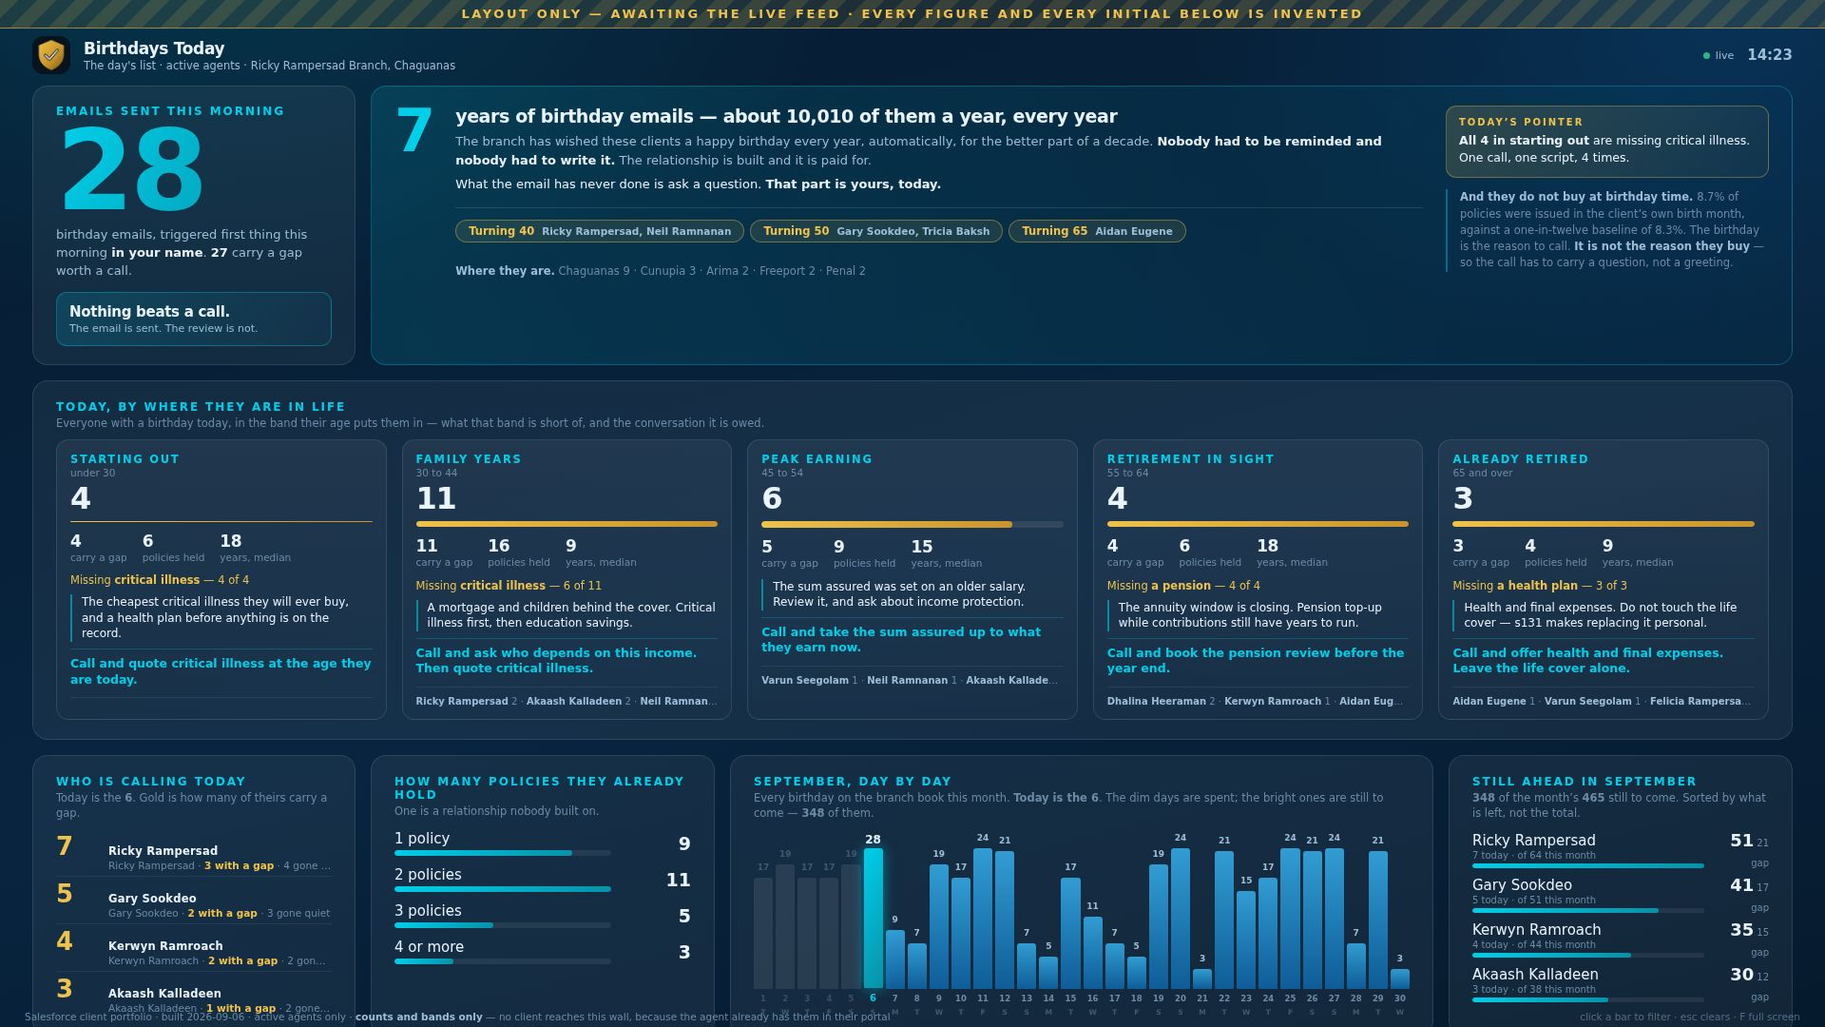
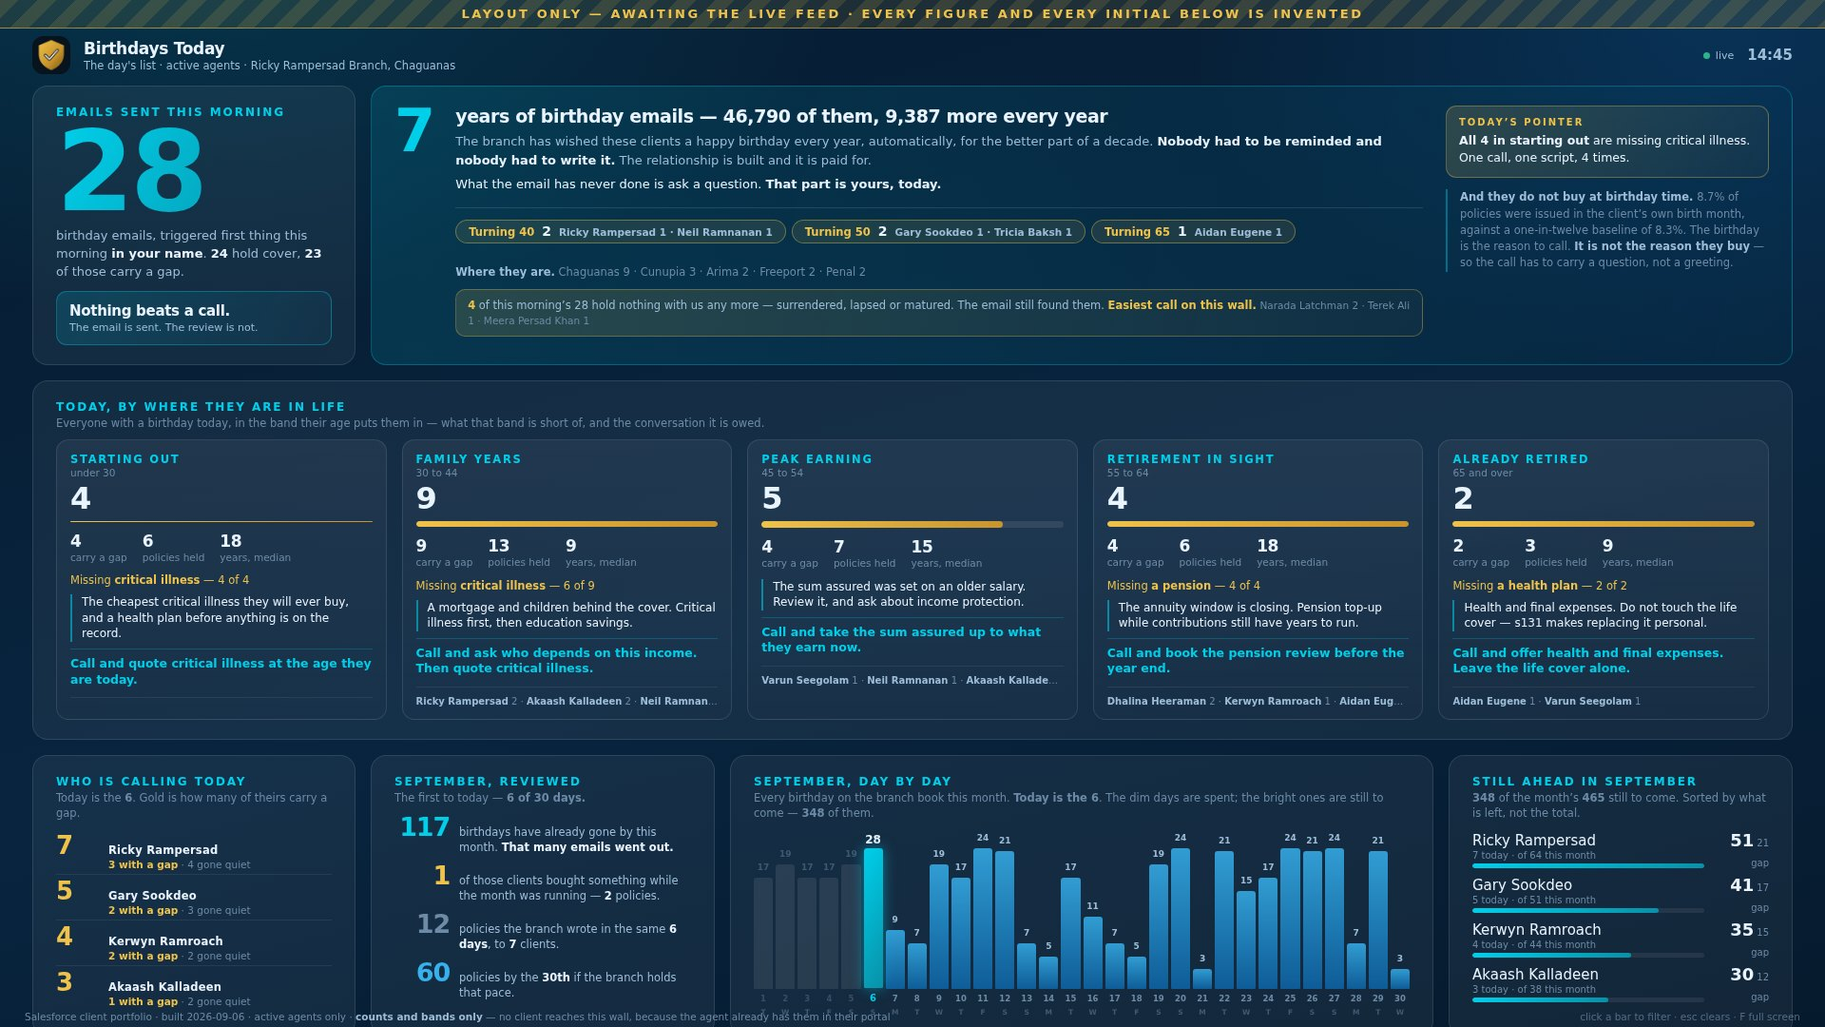
Count the emails, and review the month they went out in
Three questions from the branch, and the second one found a bug that would have
put a wrong number on the wall every day.

HOW MANY EMAILS IN SEVEN YEARS. The wall said "about 10,010 a year" and left the
total to be worked out, which invites the wrong arithmetic: 9,387 x 7 is 65,709
and the branch could not defend it, because not every client has been on the
book for seven years. It is a sum instead — one email a year for as long as each
client has actually been here, capped at the seven the automation has run. Seven
queries, one per year, and they come to 46,790. The wall leads with that and
keeps the annual rate beside it.

HAS ANYTHING BEEN SOLD TO THESE CLIENTS THIS MONTH. New panel, four rows: 117
birthdays have already gone by, 1 of those clients bought (2 policies), the
branch wrote 12 in the same six days, and 60 is where the month lands at that
pace. No percentage anywhere in it — one in a hundred and seventeen printed as
0.9% reads like a measured conversion rate, and six days is not long enough to
have one. The forecast is a straight run rate with its basis printed beside it,
because six days is not enough shape to fit a trend to and a run rate is a claim
anybody in the room can check in their head.

AND THAT PANEL CAME OUT ZERO. `mm`, `dd` and `yy` were declared below the row
loop and read inside it, so `var` hoisting compared every issue date against
undefined and nothing was ever counted as bought this month. Zero is a plausible
[…]

diff --git a/intelligence/wall/book.html b/intelligence/wall/book.html
@@ -276,6 +276,8 @@
     border:1px solid rgba(239,194,75,.4);background:rgba(239,194,75,.10);
     border-radius:999px;padding:4px 13px}
   .years .mile i{font-style:normal;font:800 11.5px var(--font-b);color:var(--gold)}
+  .years .mile u{text-decoration:none;font-family:var(--font-d);font-weight:800;font-size:14px;
+    color:var(--ink);line-height:1}
   .years .mile b{font:600 10.5px var(--font-b);color:var(--dim)}
   .years .where{font-size:11.5px;color:var(--faint);line-height:1.5}
   .years .where b{color:var(--dim);font-weight:600}
@@ -341,6 +343,25 @@
      answer was the right one: an agent already has these clients in their
      portal, so the wall does not need to identify anybody — it needs to say
      which conversation to have. What is left is the shape of the day. */
+  /* THE MONTH REVIEWED. Three numbers and the one that matters is the third:
+     the branch sends the emails whatever happens, and this is the only line on
+     the wall that says whether anything came back. */
+  .ledger{display:flex;flex-direction:column;gap:8px;flex:1;min-height:0}
+  .led{display:grid;grid-template-columns:58px minmax(0,1fr);gap:10px;align-items:baseline}
+  .led .n{font-family:var(--font-d);font-weight:800;font-size:27px;line-height:1;
+    letter-spacing:-1.2px;text-align:right}
+  .led .t{font-size:11.5px;color:var(--dim);line-height:1.35}
+  .led .t b{color:var(--ink);font-weight:600}
+  .led.sent .n{color:var(--teal)}
+  .led.back .n{color:var(--gold)}
+  .led.branch .n{color:var(--faint)}
+  /* NOT .led.ahead. `.ahead` is already the column-header row in the agents
+     panel — uppercase, letter-spaced, four columns, right-aligned children —
+     and it matched this row on the second class name, so the projection came
+     out set as a table header and overflowed the card. One stylesheet, one
+     namespace: a modifier here has to be unique across the whole wall. */
+  .led.proj .n{color:var(--blue)}
+
   .band .meter{height:7px;border-radius:4px;background:rgba(255,255,255,.09);
     overflow:hidden;margin-bottom:9px}
   .band .meter i{display:block;height:100%;background:var(--grad-gold);border-radius:4px}
@@ -432,7 +453,7 @@
   /* THE ONE LINE THE WALL EXISTS TO SAY. The branch's own words, and the reason
      the rest of the screen is arranged the way it is: the letter went out by
      itself this morning, and the letter has never asked anybody a question. */
-  .hero .callout{margin-top:12px;padding:11px 13px;border-radius:11px;
+  .hero .callout{margin-top:10px;padding:11px 13px;border-radius:11px;
     background:linear-gradient(120deg,rgba(0,207,234,.16),rgba(0,207,234,.04));
     border:1px solid rgba(0,207,234,.34);
     font-family:var(--font-d);font-weight:800;font-size:15px;color:var(--ink);
@@ -440,8 +461,20 @@
   .hero .callout span{display:block;font-family:var(--font-b);font-weight:500;
     font-size:11px;color:var(--dim);letter-spacing:0;margin-top:2px}
 
+  /* FORMER CLIENTS WITH A BIRTHDAY TODAY. It lives on the years card and not in
+     the hero, and that is a measurement rather than a preference: the hero
+     column is 290px, where this paragraph runs to six lines and pushed the card
+     164px past a row that has none to give. Here it is one line. */
+  .years .ylapse{margin-top:9px;padding:8px 12px;border-radius:10px;
+    background:linear-gradient(120deg,rgba(239,194,75,.15),rgba(239,194,75,.03));
+    border:1px solid rgba(239,194,75,.32);font-size:11.5px;color:var(--dim);
+    line-height:1.4}
+  .years .ylapse b{color:var(--gold);font-weight:700}
+  .years .ylapse em{font-style:normal;color:var(--faint);font-size:10.5px}
+  .years .ylapse:empty{display:none}
+
   /* round-number birthdays, with whose they are */
-  .mrow{display:flex;align-items:baseline;gap:11px;padding:5px 0;
+  .mrow{display:flex;align-items:baseline;gap:11px;padding:4px 0;
     border-bottom:1px solid rgba(255,255,255,.07)}
   .mrow:last-child{border-bottom:0}
   .mrow .age{font-family:var(--font-d);font-weight:800;font-size:26px;line-height:1;
@@ -563,6 +596,7 @@
         <div class="miles" id="bMiles"></div>
         <div class="where" id="heroWhere"></div>
       </div>
+      <div class="ylapse" id="heroLapse"></div>
     </div>
     <div class="yside">
       <div class="tip" id="yTip"></div>
@@ -579,9 +613,9 @@
     <p class="cap" id="wCap"></p>
     <div id="mList"></div></section>
 
-  <section class="card pol"><h3>How many policies they already hold</h3>
-    <p class="cap">One is a relationship nobody built on.</p>
-    <div class="rows" id="rPol"></div></section>
+  <section class="card pol"><h3 id="ledHead">The month, reviewed</h3>
+    <p class="cap" id="ledCap">From the first to today &mdash; and what came back.</p>
+    <div class="ledger" id="rLedger"></div></section>
 
   <section class="card season"><h3 id="dHead">The month, day by day</h3>
     <p class="cap" id="dCap"></p>
@@ -710,7 +744,7 @@ function paint(){
       + 'workbook carries them.';
     $("#bMiles").innerHTML=''; $("#heroWhere").innerHTML='';
     $("#yFind").innerHTML='';
-    ["#rPol","#rDays","#rMonth","#mList"].forEach(function(x){ $(x).innerHTML=""; });
+    ["#rLedger","#rDays","#rMonth","#mList"].forEach(function(x){ $(x).innerHTML=""; });
     $("#monthCap").textContent="";
     $("#cList").innerHTML='<p class="none">Set the Salesforce credentials in '
       + '<b>SalesforceSync.gs</b>, deploy the script, and paste the <b>/exec</b> URL into '
@@ -724,19 +758,36 @@ function paint(){
 
   $("#heroKick").textContent="Emails sent this morning";
   $("#heroN").style.cssText="";
-  $("#heroN").textContent=n(T.n);
+  /* THE NUMBER THE BRANCH COUNTS IS EMAILS, NOT CLIENTS ON THE BOOK. The
+     automation mails a contact with a birthday; it does not check whether that
+     contact still holds anything. On 6 September 28 went out and 24 of those
+     people hold cover — so a wall showing 24 under the words "emails sent"
+     would be quietly disagreeing with the branch's own send report. */
+  $("#heroN").textContent=n(T.emails!=null?T.emails:T.n);
   /* Computed before it is read. It was declared below this line and var hoists,
      so the wall confidently reported that twenty eight clients hold 0 policies
      between them — which is the kind of wrong a wall states with a straight
      face. */
   var polN=(T.bands||[]).reduce(function(a,b){ return a+(b.policies||0); },0);
   $("#heroCap").innerHTML='birthday emails, triggered first thing this morning '
-    + '<b>in your name</b>. <b>'+n(T.withGap)+'</b> carry a gap worth a call.';
+    + '<b>in your name</b>. <b>'+n(T.n)+'</b> hold cover, <b>'+n(T.withGap)
+    + '</b> of those carry a gap.';
+  var LA=(T.lapsedAgents||[]);
+  $("#heroLapse").innerHTML = T.lapsed
+    ? '<b>'+n(T.lapsed)+'</b> of this morning&rsquo;s '+n(T.emails!=null?T.emails:T.n)
+      + ' hold nothing with us any more &mdash; surrendered, lapsed or matured. '
+      + 'The email still found them. <b>Easiest call on this wall.</b>'
+      + (LA.length ? ' <em>'+LA.slice(0,4).map(function(a){
+            return esc(a.k)+' '+n(a.n); }).join(' &middot; ')+'</em>' : '')
+    : '';
   var MI=T.milestones||[];
   $("#bMiles").innerHTML = MI.length
     ? MI.map(function(m){
-        var who=(m.agents||[]).map(function(a){ return esc(a.k)+(a.n>1?' '+n(a.n):''); }).join(', ');
-        return '<span class="mile"><i>'+esc(m.k)+'</i>'+(who?'<b>'+who+'</b>':'')+'</span>'; }).join("")
+        /* "Turning 50 · Gary Sookdeo, Tricia Baksh" left it open whether that
+           was two clients or four. Every count is stated now. */
+        var who=(m.agents||[]).map(function(a){ return esc(a.k)+' '+n(a.n); }).join(' &middot; ');
+        return '<span class="mile"><i>'+esc(m.k)+'</i><u>'+n(m.n)+'</u>'
+             + (who?'<b>'+who+'</b>':'')+'</span>'; }).join("")
     : '';
   /* WHOSE PHONE SHOULD RING. The branch's question in one panel: today is the
      sixth, these are the people whose clients are having it, and this is how
@@ -747,8 +798,13 @@ function paint(){
   $("#mList").innerHTML = TB.length ? TB.slice(0,4).map(function(a){
       return '<div class="mrow"><div class="age">'+n(a.n)+'</div><div class="mt">'
         + '<div class="t">'+esc(a.k)+'</div>'
-        + '<div class="a">'+esc(a.unit||'')+(a.gap?' &middot; <em>'+n(a.gap)+' with a gap</em>':'')
-        + (a.quiet?' &middot; '+n(a.quiet)+' gone quiet':'')+'</div>'
+        /* The unit only when it is not the agent's own name. Four of the
+           branch's agents run their own unit, so the row read "Ricky Rampersad
+           / Ricky Rampersad · 3 with a gap · 4 gone quiet" and the line that
+           mattered was the half that fell off the end. */
+        + '<div class="a">'+(a.unit&&a.unit!==a.k?esc(a.unit)+' &middot; ':'')
+        + (a.gap?'<em>'+n(a.gap)+' with a gap</em>':'')
+        + (a.quiet?(a.gap?' &middot; ':'')+n(a.quiet)+' gone quiet':'')+'</div>'
         + '</div></div>'; }).join("")
     : '<p class="none">Nobody on the branch book has a birthday today.</p>';
   var TW=(T.towns||[]).slice(0,5);
@@ -758,14 +814,19 @@ function paint(){
 
   /* The seven-year claim, with the measurement that qualifies it beside it. */
   var BE=D.birthdayEffect||{};
+  var M0=(D.month||{});
   var TIP=T.tip;
   $("#yTip").innerHTML = TIP
     ? '<div class="tk">Today&rsquo;s pointer</div><div class="tt"><b>'+esc(TIP.k)+'</b> '
       + esc(TIP.t)+'</div>'
     : '';
-  var LY=D.lettersAYear;
-  if(LY) $(".years .hd").innerHTML='years of birthday emails &mdash; about <b>'
-    + n(LY)+'</b> of them a year, every year';
+  /* "About 10,010 a year" invited the question the branch could not answer: how
+     many altogether? It is countable — a client with a birth date on file gets one
+     a year for as long as they have been on the book, capped at the seven years the
+     automation has run. Both figures are stated now, the total first. */
+  var LY=D.lettersAYear, SY=D.sevenYearEmails;
+  if(LY) $(".years .hd").innerHTML='years of birthday emails &mdash; <b>'
+    + n(SY||0)+'</b> of them, <b>'+n(LY)+'</b> more every year';
   $("#yFind").innerHTML = BE.pct!=null
     ? '<b>And they do not buy at birthday time.</b> '+BE.pct+'% of policies were issued in '
       + 'the client&rsquo;s own birth month, against a one-in-twelve baseline of '
@@ -806,9 +867,33 @@ function paint(){
     : '<p class="none">Nobody on the branch book has a birthday today. '
       + n(T.week)+' do inside the next seven days.</p>';
 
-  bars($("#rPol"),  T.policiesHeld||[], "pol",  "teal");
+  var SD=(M0.sold||{}), SB=(M0.soldBranch||{}), FC=(M0.forecast||{});
+  $("#ledHead").textContent=(M0.name||'The month')+', reviewed';
+  /* One line. The card is 345px wide inside its padding and every line the
+     heading takes is a line the last row loses at the bottom edge. */
+  $("#ledCap").innerHTML='The first to today &mdash; <b>'+n(FC.basis||0)+' of '
+    + n(FC.of||0)+' days.</b>';
+  $("#rLedger").innerHTML=
+      '<div class="led sent"><div class="n">'+n(M0.soFar)+'</div><div class="t">'
+    +   'birthdays have already gone by this month. <b>That many emails went out.</b></div></div>'
+    + '<div class="led back"><div class="n">'+n(SD.clients)+'</div><div class="t">'
+    +   'of those clients bought something while the month was running &mdash; <b>'
+    +   n(SD.policies)+'</b> '+(SD.policies===1?'policy':'policies')+'.</div></div>'
+    /* NO PERCENTAGE HERE. One client out of a hundred and seventeen is one
+       client; printed as 0.9% it reads like a measured conversion rate, and
+       six days of a month is not enough to have one. The counts say the same
+       thing and cannot be mistaken for a finding. */
+    + '<div class="led branch"><div class="n">'+n(SB.policies)+'</div>'
+    +   '<div class="t">'+(SB.policies===1?'policy':'policies')+' the branch wrote in '
+    +   'the same <b>'+n(FC.basis||0)+' days</b>, to <b>'+n(SB.clients)+'</b> '
+    +   (SB.clients===1?'client':'clients')+'.</div></div>'
+    /* The birthdays still to come are on two other cards already. This row is
+       the only forecast on the wall, so it says one thing. */
+    + '<div class="led proj"><div class="n">'+n(FC.policies||0)+'</div><div class="t">'
+    +   'policies by the <b>'+n(FC.of||0)+'th</b> if the branch holds that pace.'
+    +   '</div></div>';
 
-  var M=(D.month||{});
+  var M=M0;
   $("#dHead").textContent=(M.name||'This month')+', day by day';
   $("#dCap").innerHTML='Every birthday on the branch book this month. <b>Today is the '
     + n(M.day)+'</b>. The dim days are spent; the bright ones are still to come — <b>'

diff --git a/intelligencewalldemo/index.html b/intelligencewalldemo/index.html
@@ -365,10 +365,12 @@
           that is a day's work rather than a year's position. Whose birthday it is
           <b>today</b>, grouped into five life stages, with what each stage is short of
           and the conversation it is owed. The birthday letter has gone out automatically
-          for seven years; what it has never done is ask a question. No client reaches this
-          wall — counts and bands, like the other four. <b>The picture is the layout, not a
-          reading</b> — the figures in it are placeholders until the Salesforce feed is
-          connected.</p>
+          for seven years &mdash; <b>46,790 of them</b> &mdash; and what it has never done
+          is ask a question. It reviews the month behind it too: how many birthdays have
+          gone by, whether any of those clients bought, and where the month lands at the
+          branch's own pace. No client reaches this wall &mdash; counts and bands, like the
+          other four. <b>The picture is the layout, not a reading</b> &mdash; the figures in
+          it are placeholders until the Salesforce feed is connected.</p>
         <a class="go" href="/intelligence/wall/book.html">Open the wall →</a>
       </div>
     </div>

diff --git a/INTELLIGENCE-SETUP.md b/INTELLIGENCE-SETUP.md
@@ -922,6 +922,42 @@ Milestone birthdays — 21, 25, 30, 40, 50, 60, 65, 70, 75, 80 — with the agen
 whose client it is on the chip. A round number is the birthday somebody
 remembers being called on.
 
+**Every count is stated.** The chip read `Turning 50 · Gary Sookdeo, Tricia
+Baksh` and the branch's own question back was *"actually how much? Is it two
+giving fifty?"* — which is exactly what that chip left open. It reads
+`Turning 50 | 2 | Gary Sookdeo 1 · Tricia Baksh 1` now: the total on the chip,
+and a number against every name on it. On 6 September the branch's three are one
+client each at 40, 50 and 65.
+
+#### Two that bit
+
+**`var` hoisting made "bought this month" zero for the whole branch.** The month
+cursor — `mm`, `dd`, `yy` — was declared below the row loop and read inside it,
+so every comparison ran against `undefined` and no policy was ever counted as
+issued this month. Zero is a plausible number for a quiet month; nothing on the
+wall could have shown it was wrong. The unit test did, because the fixture was
+built with clients who *had* bought. The declaration is above the loop now with
+a note saying why it has to stay there. This is the second time hoisting has put
+a confident wrong number on this wall (the first printed "0 policies") — in a
+file this long, compute before you read, and test the number rather than the
+shape.
+
+**A modifier class collided with a standalone rule.** The projection row was
+`<div class="led ahead">` and `.ahead` was already the agents panel's column
+header — uppercase, letter-spaced, four columns, children right-aligned. It
+matched on the second class name, so the forecast rendered as a table header and
+ran out of the bottom of the card. It is `.led.proj` now. One file, one
+stylesheet, one namespace: a modifier has to be unique across the whole wall,
+and `booku.js` now fails any body-text slot that comes out uppercase or
+right-aligned.
+
+**And `flex:1` hides an overflow from both measurements.** `.ledger` is a column
+flex with `flex:1;min-height:0`, so it shrank to its allotted height and let its
+last row hang below the card. `offsetHeight` reported the height it was given,
+`scrollHeight` reported no overflow, and both harnesses passed a card that was
+visibly cut in the screenshot. `fit3.js` now asks any column flex with
+`flex-grow > 0` what its own children come to, rather than what it was handed.
+
 #### It is a phone as well as a wall
 
 Below 1200px the grid unwinds to two columns and the page is allowed to scroll;
@@ -940,12 +976,66 @@ better part of a decade. That is the argument for the wall and it leads it: the
 relationship is already built and already paid for, and what the letter has
 never done is ask a question.
 
-**About 10,010 emails a year**, which is the number of branch clients with a
-birth date on file — one client, one email, every year. Stated as the annual
-rate rather than a seven year total, because not every client has been on the
-book for all seven and a total is a number the branch could not defend if
-anybody asked. The hero counts today's: **twenty eight went out this morning,
-from the branch, in the agent's name**, before anybody sat down.
+**46,790 emails over the seven years, and about 9,387 more every year.** The
+annual figure is the number of branch clients with a birth date on file — one
+client, one email, every year. The seven-year total beside it is a sum and not a
+multiplication: every client contributes one a year for as long as they have
+actually been on the book, capped at the seven years the automation has run, so
+a client of two years adds two and not seven. 9,387 x 7 is 65,709 and the branch
+could not defend it, which is why the wall does not print it. The hero counts
+today's: **twenty eight went out this morning, from the branch, in the agent's
+name**, before anybody sat down.
+
+Measured on the branch book on 6 September 2026, one query per year:
+
+| Clients with a birth date whose first policy is at least | |
+|---|---|
+| 1 year old | 8,408 |
+| 2 years | 7,779 |
+| 3 years | 7,165 |
+| 4 years | 6,624 |
+| 5 years | 6,062 |
+| 6 years | 5,534 |
+| 7 years | 5,218 |
+| **Total emails** | **46,790** |
+
+#### Twenty eight emails, twenty four clients
+
+The automation mails a **contact** with a birthday. It does not check whether
+that contact still holds anything, and four of the twenty eight who got one this
+morning hold nothing at all — every policy surrendered, lapsed or matured. So a
+hero reading 24 under the words "emails sent this morning" would quietly
+disagree with the branch's own send report, and the four people it dropped are
+the most interesting names on the list: a former client, on their birthday, who
+has just heard from the branch.
+
+They are kept out of the bands, because they hold nothing to band and nothing to
+count, and reported on their own line with the agent who last had them. The
+number is `today.emails` (28) against `today.n` (24) and `today.lapsed` (4);
+every band total, policy count and gap on the wall is of the 24.
+
+#### The month, reviewed
+
+The branch asked it plainly: *from the first to the first, has anything been
+sold to these clients?* Four rows, and the third is why the fourth is honest.
+
+| Row | 6 September |
+|---|---|
+| Birthdays whose day has already gone this month | 117 — that many emails |
+| Of those clients, who bought while the month was running | 1 client, 2 policies |
+| What the branch wrote in the same six days | 12 policies, 7 clients |
+| Where the month lands at that pace | 60 policies by the 30th |
+
+**No percentage.** One client in a hundred and seventeen printed as 0.9% reads
+like a measured conversion rate, and six days is not long enough to have one.
+The counts say the same thing and cannot be mistaken for a finding. The
+seasonality measurement above already answers the question a rate would be
+reaching for: birthday month and buying month are barely related.
+
+**The forecast is a run rate, not a trend.** What has been written, over the
+share of the month that has been used. Six days is not enough shape to fit a
+trend line to, and a straight run rate is a claim anybody in the room can check
+in their head — so the basis is printed beside it, *6 of 30 days*.
 
 **And they do not buy at birthday time**, which is worth knowing before anybody
 builds a campaign on the idea. Measured across the branch: **8.7%** of policies
@@ -959,9 +1049,9 @@ and the wall says so beside the claim rather than leaving it to be assumed.
 The wall was a list before this, and a list is a spreadsheet. Twenty eight rows
 sorted by tenure tells an agent nothing an export could not. What makes it a
 wall is the grouping: **five life stages**, each with the cover that stage is
-typically missing, the people in it as initials, and one sentence about what to
-say. An agent scans for their own initials, reads the line above them, and knows
-the conversation before they dial.
+typically missing, how many of them carry it, and one sentence about what to
+say. An agent finds their own name on the band, reads the line above it, and
+knows the conversation before they open their portal.
 
 | Band | Age | What it checks | What the wall says to do |
 |---|---|---|---|
